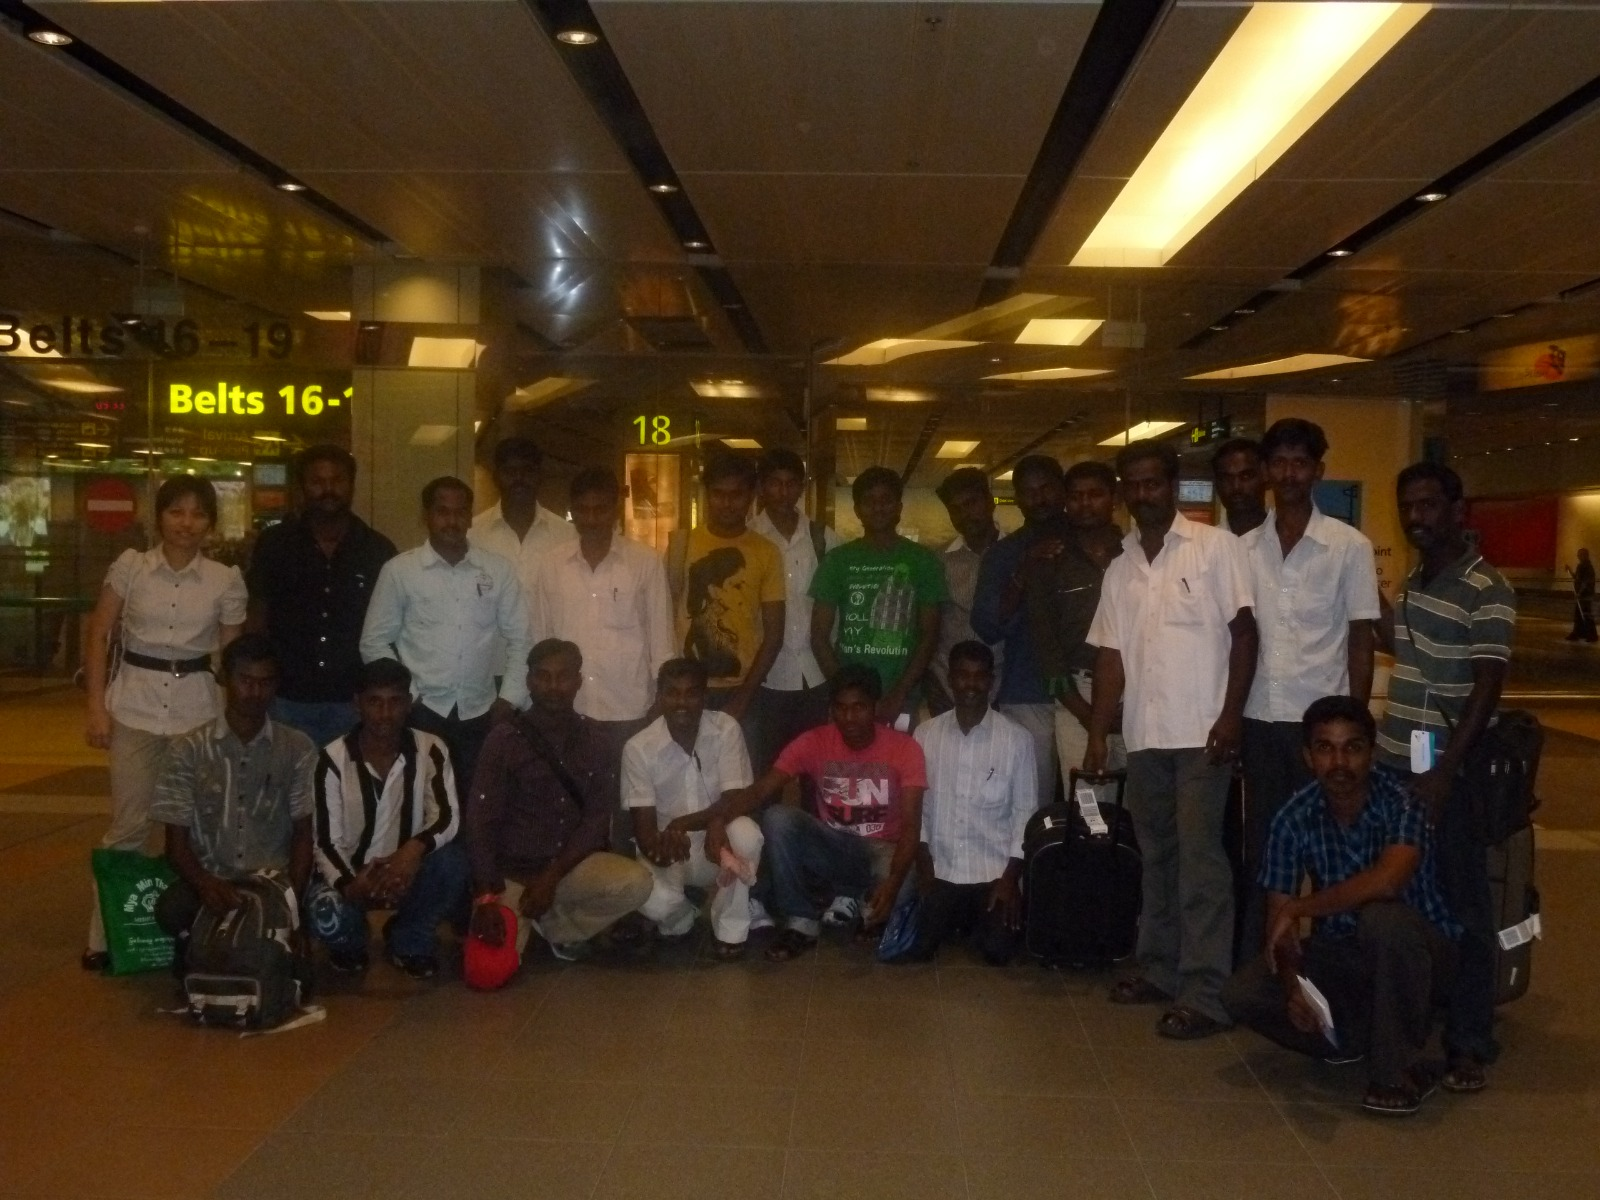
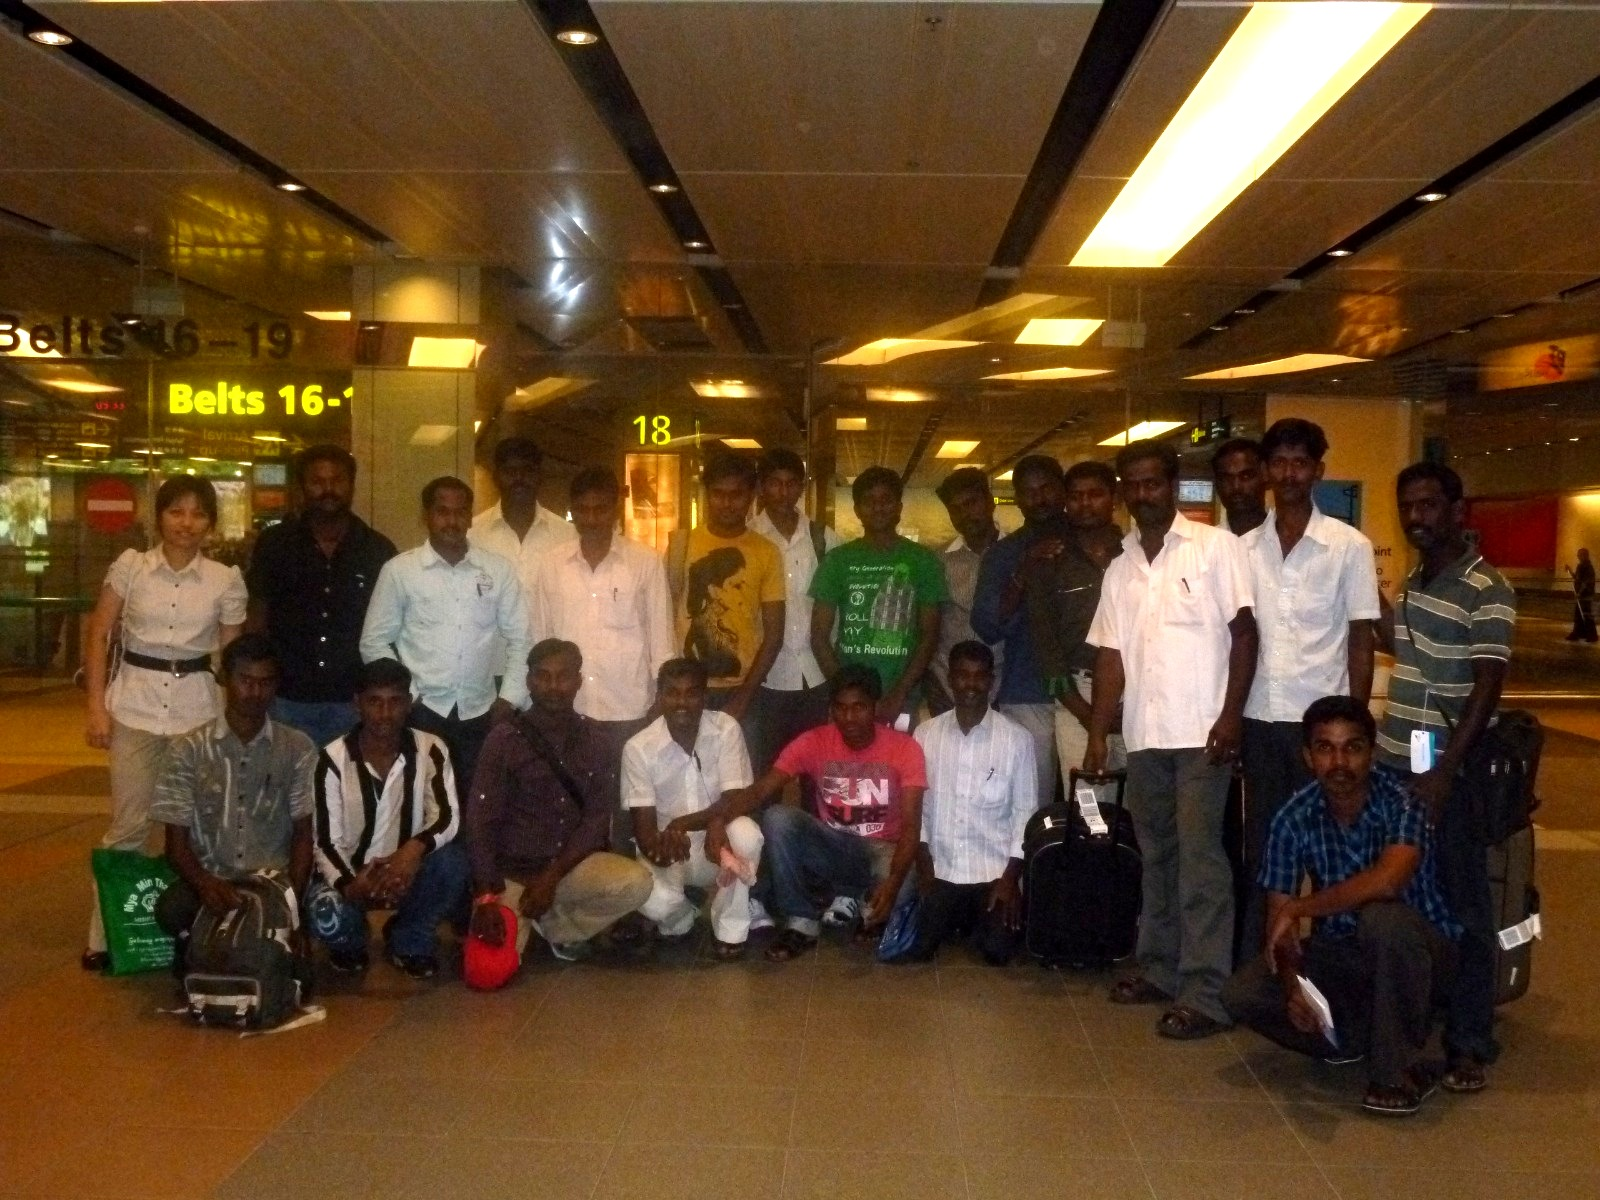
Add a back-to-top button, a new arrival photo, and a brighter baggage-claim shot.

diff --git a/training.html b/training.html
@@ -35,10 +35,10 @@
         },
       };
     </script>
-    <link rel="stylesheet" href="css/style.css?v=20260912t" />
+    <link rel="stylesheet" href="css/style.css?v=20260914h" />
     <script>try{var h=document.documentElement,t=localStorage.getItem("globalhr_theme");if(t==="dark")h.classList.add("dark");else h.classList.remove("dark");var l=localStorage.getItem("globalhr_lang");if(l==="ja"||l==="ko"||l==="ru"){h.lang=l;h.setAttribute("data-lang",l)}else{h.lang="en";h.setAttribute("data-lang","en")}}catch(e){}setTimeout(function(){document.documentElement.classList.add("i18n-ready")},1500);</script>
-    <script src="js/i18n.js?v=20260912j"></script>
-    <script src="js/i18n-ko-ru.js?v=20260912j"></script>
+    <script src="js/i18n.js?v=20260914h"></script>
+    <script src="js/i18n-ko-ru.js?v=20260914h"></script>
   </head>
   <body class="bg-brandLight text-brandDark dark:bg-slate-950">
     <header id="siteHeader"></header>
@@ -117,7 +117,7 @@
               <img src="assets/images/photos/services/arrival/arrival-07-airport-curb-group.jpg" alt="Employees gathered at airport curb on arrival" loading="lazy" decoding="async" />
             </figure>
             <figure>
-              <img src="assets/images/photos/services/arrival/arrival-08-belt-group.jpg" alt="Arrival group at airport baggage collection area" loading="lazy" decoding="async" />
+              <img src="assets/images/photos/services/arrival/arrival-08-belt-group.jpg?v=20260914g" alt="Arrival group at airport baggage collection area" loading="lazy" decoding="async" />
             </figure>
             <figure>
               <img src="assets/images/photos/services/arrival/arrival-09-starbucks-team.jpg" alt="Global HR team meet-up at airport on arrival day" loading="lazy" decoding="async" />
@@ -136,6 +136,9 @@
             </figure>
             <figure>
               <img src="assets/images/photos/services/arrival/arrival-14-jsl-terminal2-group.jpg" alt="JSL group arrival at Terminal 2" loading="lazy" decoding="async" />
+            </figure>
+            <figure>
+              <img src="assets/images/photos/services/arrival/arrival-16-airport-welcome-group.jpg" alt="Employee arrival group welcomed at the airport" loading="lazy" decoding="async" />
             </figure>
           </div>
         </div>
@@ -464,6 +467,6 @@
     <script src="js/site-footer.js?v=20260904a"></script>
     <script src="js/training-programs.js?v=20260609"></script>
     <script src="js/photo-lightbox.js?v=20260912a"></script>
-    <script src="js/main.js?v=20260912u"></script>
+    <script src="js/main.js?v=20260914h"></script>
   </body>
 </html>

diff --git a/js/main.js b/js/main.js
@@ -259,11 +259,50 @@
     refresh: initScrollReveal,
   };
 
+  function initBackToTop() {
+    if (isAdminPath()) return;
+    if (currentPublicHtmlFile() === "contact.html") return;
+    if (document.getElementById("backToTop")) return;
+
+    var btn = document.createElement("button");
+    btn.type = "button";
+    btn.id = "backToTop";
+    btn.className = "back-to-top";
+    btn.innerHTML =
+      '<svg viewBox="0 0 24 24" fill="none" stroke="currentColor" stroke-width="2.2" aria-hidden="true"><path d="M6 14l6-6 6 6"/></svg>';
+    document.body.appendChild(btn);
+
+    function setLabel() {
+      var label = "Back to top";
+      if (window.GlobalHrI18n && typeof window.GlobalHrI18n.t === "function") {
+        label = window.GlobalHrI18n.t("nav.backToTop", label);
+      }
+      btn.setAttribute("aria-label", label);
+    }
+
+    function sync() {
+      var y = window.pageYOffset || document.documentElement.scrollTop || 0;
+      btn.classList.toggle("is-visible", y > 420);
+    }
+
+    setLabel();
+    if (window.GlobalHrI18n && typeof window.GlobalHrI18n.onChange === "function") {
+      window.GlobalHrI18n.onChange(setLabel);
+    }
+
+    btn.addEventListener("click", function () {
+      window.scrollTo({ top: 0, behavior: prefersReducedMotion() ? "auto" : "smooth" });
+    });
+    window.addEventListener("scroll", sync, { passive: true });
+    sync();
+  }
+
   initActivePublicNav();
   document.addEventListener("globalhr:nav-rendered", initActivePublicNav);
   initPageEnterMotion();
   initHeroSlideshow();
   initScrollReveal();
+  initBackToTop();
   if (typeof window.initPhotoLightbox === "function") window.initPhotoLightbox();
 
   if (!/\/admin(\/|$)/i.test(window.location.pathname || "") && !/subscribe\.html/i.test(window.location.pathname || "")) {

diff --git a/index.html b/index.html
@@ -41,10 +41,10 @@
     <link rel="preconnect" href="https://script.google.com" crossorigin />
     <link rel="dns-prefetch" href="https://script.googleusercontent.com" />
     <link rel="preload" href="js/sheets-news.js?v=20260827f" as="script" crossorigin />
-    <link rel="stylesheet" href="css/style.css?v=20260914f" />
+    <link rel="stylesheet" href="css/style.css?v=20260914h" />
     <script>try{var h=document.documentElement,t=localStorage.getItem("globalhr_theme");if(t==="dark")h.classList.add("dark");else h.classList.remove("dark");var l=localStorage.getItem("globalhr_lang");if(l==="ja"||l==="ko"||l==="ru"){h.lang=l;h.setAttribute("data-lang",l)}else{h.lang="en";h.setAttribute("data-lang","en")}}catch(e){}setTimeout(function(){document.documentElement.classList.add("i18n-ready")},1500);</script>
-    <script src="js/i18n.js?v=20260914e"></script>
-    <script src="js/i18n-ko-ru.js?v=20260914e"></script>
+    <script src="js/i18n.js?v=20260914h"></script>
+    <script src="js/i18n-ko-ru.js?v=20260914h"></script>
   </head>
   <body class="bg-brandLight text-brandDark dark:bg-slate-950">
     <header id="siteHeader"></header>
@@ -506,6 +506,6 @@
     <script src="js/home-news-panel.js?v=20260904a"></script>
     <script src="js/clients-data.js?v=20260707"></script>
     <script src="js/clients-page.js?v=20260707b"></script>
-    <script src="js/main.js?v=20260912u"></script>
+    <script src="js/main.js?v=20260914h"></script>
   </body>
 </html>

diff --git a/news.html b/news.html
@@ -41,10 +41,10 @@
         },
       };
     </script>
-    <link rel="stylesheet" href="css/style.css?v=20260912t" />
+    <link rel="stylesheet" href="css/style.css?v=20260914h" />
     <script>try{var h=document.documentElement,t=localStorage.getItem("globalhr_theme");if(t==="dark")h.classList.add("dark");else h.classList.remove("dark");var l=localStorage.getItem("globalhr_lang");if(l==="ja"||l==="ko"||l==="ru"){h.lang=l;h.setAttribute("data-lang",l)}else{h.lang="en";h.setAttribute("data-lang","en")}}catch(e){}setTimeout(function(){document.documentElement.classList.add("i18n-ready")},1500);</script>
-    <script src="js/i18n.js?v=20260912j"></script>
-    <script src="js/i18n-ko-ru.js?v=20260912j"></script>
+    <script src="js/i18n.js?v=20260914h"></script>
+    <script src="js/i18n-ko-ru.js?v=20260914h"></script>
   </head>
   <body class="site-shell bg-brandLight text-brandDark dark:bg-slate-950">
     <header id="siteHeader"></header>
@@ -147,6 +147,6 @@
     <script src="js/news-ui.js?v=20260904a"></script>
     <script src="js/news-page.js?v=20260904a"></script>
     <script src="js/photo-lightbox.js?v=20260827g"></script>
-    <script src="js/main.js?v=20260912u"></script>
+    <script src="js/main.js?v=20260914h"></script>
   </body>
 </html>

diff --git a/subscribe.html b/subscribe.html
@@ -39,10 +39,10 @@
         },
       };
     </script>
-    <link rel="stylesheet" href="css/style.css?v=20260912t" />
+    <link rel="stylesheet" href="css/style.css?v=20260914h" />
     <script>try{var h=document.documentElement,t=localStorage.getItem("globalhr_theme");if(t==="dark")h.classList.add("dark");else h.classList.remove("dark");var l=localStorage.getItem("globalhr_lang");if(l==="ja"||l==="ko"||l==="ru"){h.lang=l;h.setAttribute("data-lang",l)}else{h.lang="en";h.setAttribute("data-lang","en")}}catch(e){}setTimeout(function(){document.documentElement.classList.add("i18n-ready")},1500);</script>
-    <script src="js/i18n.js?v=20260912j"></script>
-    <script src="js/i18n-ko-ru.js?v=20260912j"></script>
+    <script src="js/i18n.js?v=20260914h"></script>
+    <script src="js/i18n-ko-ru.js?v=20260914h"></script>
   </head>
   <body class="bg-brandLight text-brandDark dark:bg-slate-950">
     <header id="siteHeader"></header>
@@ -178,7 +178,7 @@
 
     <script src="js/cms-config.js?v=20260605"></script>
     <script src="js/site-footer.js?v=20260904a"></script>
-    <script src="js/main.js?v=20260912u"></script>
+    <script src="js/main.js?v=20260914h"></script>
     <script src="js/subscribe.js?v=20260904a"></script>
   </body>
 </html>

diff --git a/about.html b/about.html
@@ -35,10 +35,10 @@
         },
       };
     </script>
-    <link rel="stylesheet" href="css/style.css?v=20260912t" />
+    <link rel="stylesheet" href="css/style.css?v=20260914h" />
     <script>try{var h=document.documentElement,t=localStorage.getItem("globalhr_theme");if(t==="dark")h.classList.add("dark");else h.classList.remove("dark");var l=localStorage.getItem("globalhr_lang");if(l==="ja"||l==="ko"||l==="ru"){h.lang=l;h.setAttribute("data-lang",l)}else{h.lang="en";h.setAttribute("data-lang","en")}}catch(e){}setTimeout(function(){document.documentElement.classList.add("i18n-ready")},1500);</script>
-    <script src="js/i18n.js?v=20260912p"></script>
-    <script src="js/i18n-ko-ru.js?v=20260912p"></script>
+    <script src="js/i18n.js?v=20260914h"></script>
+    <script src="js/i18n-ko-ru.js?v=20260914h"></script>
   </head>
   <body class="bg-brandLight text-brandDark dark:bg-slate-950">
     <header id="siteHeader"></header>
@@ -504,6 +504,6 @@
 
     <script src="js/site-footer.js?v=20260904a"></script>
     <script src="js/photo-lightbox.js?v=20260608"></script>
-    <script src="js/main.js?v=20260912u"></script>
+    <script src="js/main.js?v=20260914h"></script>
   </body>
 </html>

diff --git a/services.html b/services.html
@@ -35,10 +35,10 @@
         },
       };
     </script>
-    <link rel="stylesheet" href="css/style.css?v=20260912t" />
+    <link rel="stylesheet" href="css/style.css?v=20260914h" />
     <script>try{var h=document.documentElement,t=localStorage.getItem("globalhr_theme");if(t==="dark")h.classList.add("dark");else h.classList.remove("dark");var l=localStorage.getItem("globalhr_lang");if(l==="ja"||l==="ko"||l==="ru"){h.lang=l;h.setAttribute("data-lang",l)}else{h.lang="en";h.setAttribute("data-lang","en")}}catch(e){}setTimeout(function(){document.documentElement.classList.add("i18n-ready")},1500);</script>
-    <script src="js/i18n.js?v=20260912j"></script>
-    <script src="js/i18n-ko-ru.js?v=20260912j"></script>
+    <script src="js/i18n.js?v=20260914h"></script>
+    <script src="js/i18n-ko-ru.js?v=20260914h"></script>
   </head>
   <body class="bg-brandLight text-brandDark dark:bg-slate-950">
     <header id="siteHeader"></header>
@@ -156,6 +156,6 @@
 
     <script src="js/site-footer.js?v=20260904a"></script>
     <script src="js/photo-lightbox.js?v=20260608"></script>
-    <script src="js/main.js?v=20260912u"></script>
+    <script src="js/main.js?v=20260914h"></script>
   </body>
 </html>

diff --git a/css/style.css b/css/style.css
@@ -4344,3 +4344,57 @@ html.dark .wa-chat.is-open .wa-chat__toggle {
   border-color: #334155;
   color: #4ade80;
 }
+
+.back-to-top {
+  position: fixed;
+  right: 1.15rem;
+  bottom: 1.15rem;
+  z-index: 70;
+  width: 2.85rem;
+  height: 2.85rem;
+  border: 0;
+  border-radius: 999px;
+  background: #0f274e;
+  color: #fff;
+  box-shadow: 0 10px 24px rgba(15, 39, 78, 0.28);
+  display: grid;
+  place-items: center;
+  cursor: pointer;
+  opacity: 0;
+  visibility: hidden;
+  pointer-events: none;
+  transform: translateY(0.55rem);
+  transition: opacity 0.2s ease, transform 0.2s ease, visibility 0.2s ease, background 0.15s ease;
+}
+
+.back-to-top.is-visible {
+  opacity: 1;
+  visibility: visible;
+  pointer-events: auto;
+  transform: none;
+}
+
+.back-to-top:hover {
+  background: #1e3a8a;
+}
+
+.back-to-top svg {
+  width: 1.15rem;
+  height: 1.15rem;
+}
+
+html.dark .back-to-top {
+  background: #1e3a8a;
+  box-shadow: 0 10px 24px rgba(2, 6, 23, 0.45);
+}
+
+html.dark .back-to-top:hover {
+  background: #2563eb;
+}
+
+@media (prefers-reduced-motion: reduce) {
+  .back-to-top {
+    transition: none;
+    transform: none;
+  }
+}

diff --git a/js/i18n-ko-ru.js b/js/i18n-ko-ru.js
@@ -104,6 +104,7 @@
     "nav.langJa": { ko: "日本語", ru: "日本語" },
     "nav.langKo": { ko: "한국어", ru: "한국어" },
     "nav.langRu": { ko: "RU", ru: "RU" },
+    "nav.backToTop": { ko: "맨 위로", ru: "Наверх" },
     "theme.toggle": { ko: "색상 테마 바꾸기", ru: "Переключить цветовую тему" },
     "theme.dark": { ko: "다크", ru: "Тёмная" },
     "theme.light": { ko: "라이트", ru: "Светлая" },

diff --git a/js/i18n.js b/js/i18n.js
@@ -106,6 +106,7 @@
     "nav.langJa": { en: "日本語", ja: "日本語" },
     "nav.langKo": { en: "한국어", ja: "한국어" },
     "nav.langRu": { en: "RU", ja: "RU" },
+    "nav.backToTop": { en: "Back to top", ja: "ページ上部へ" },
     "theme.toggle": { en: "Toggle color theme", ja: "カラーテーマを切り替える" },
     "theme.dark": { en: "Dark", ja: "ダーク" },
     "theme.light": { en: "Light", ja: "ライト" },

diff --git a/contact.html b/contact.html
@@ -233,7 +233,7 @@
     <footer id="siteFooter"></footer>
 
     <script src="js/site-footer.js?v=20260904a"></script>
-    <script src="js/main.js?v=20260912u"></script>
+    <script src="js/main.js?v=20260914h"></script>
     <script src="js/contact.js?v=20260914a"></script>
   </body>
 </html>
